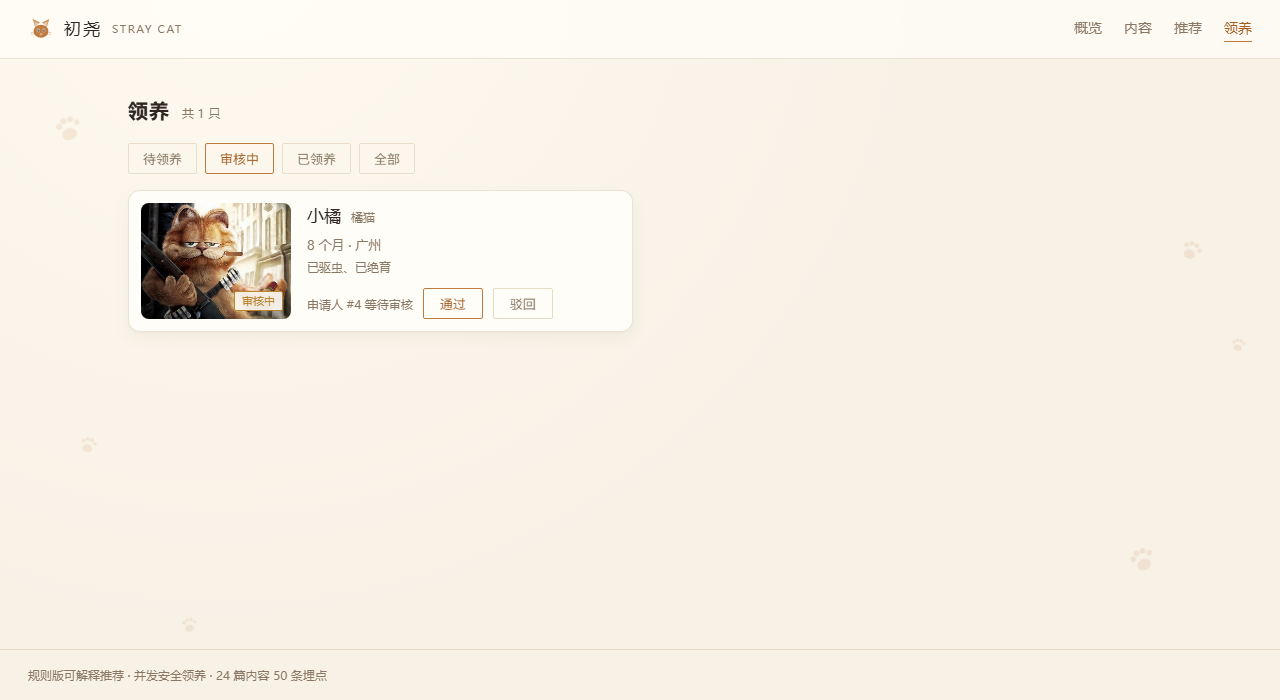
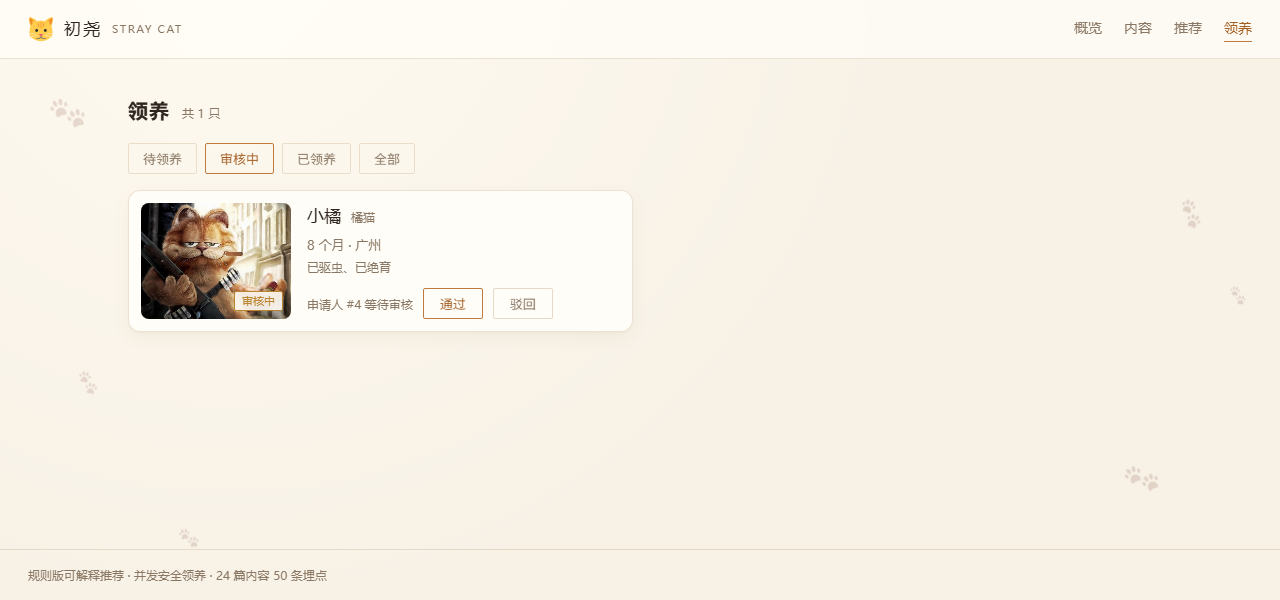
fix(web): 内容页每页 12 条（末行不再只剩一张）+ 换用 Twemoji 猫咪图形
- ContentList 里写死的 PAGE_SIZE=10 覆盖了 api 默认值，改为 12（3 列 × 4 行整除）
- 手绘猫形换成 Twemoji 的 🐱 / 🐾（CC-BY 4.0），16~64px 都清晰；整只猫轻微浮动
- 爪印背景改用同一套图形，README 增加素材来源与许可说明
- 截图脚本加 --run-all-compositor-stages-before-draw，避免拍到淡入动画中间帧

diff --git a/web/src/components/CatFace.vue b/web/src/components/CatFace.vue
@@ -1,118 +1,53 @@
 <script setup>
 // =============================================================================
-// components/CatFace.vue —— 会眨眼的小猫（纯 SVG + CSS 动画，零依赖）
+// components/CatFace.vue —— 小猫图案
 // =============================================================================
-// 为什么用 SVG 而不是图片：
-//   ① 颜色直接用 CSS 变量，换主题不用重做图
-//   ② 动画可以只作用于局部（这里只让"眼睛"眨），图片做不到
-//   ③ 体积几乎为 0，任意放大不糊
+// 图形来自 Twemoji（🐱 U+1F431），CC-BY 4.0 许可，见 README「素材来源」。
+// 为什么用现成的而不是自己画：手绘的 SVG 在小尺寸下五官挤在一起，
+// 现成的 emoji 图形在 16~64px 都经得住看。
 //
-// 构图顺序很重要：耳朵 → 头 → 五官。
-//   耳朵先画、头后画，耳朵的下半截就被头盖住，看起来是"长在头上"。
+// 动画：整只猫轻微上下浮 + 摆头，3.2 秒一个来回。
+//      （图片没法做"眨眼"，所以换成整体的小晃动，观感更自然）
 // =============================================================================
+import catUrl from '../assets/cat-face.svg'
+
 defineProps({
   size: { type: Number, default: 24 },
 })
 </script>
 
 <template>
-  <svg
+  <img
+    :src="catUrl"
     :width="size"
     :height="size"
-    viewBox="0 0 48 48"
     class="cat-face"
-    role="img"
-    aria-label="小猫"
-  >
-    <!-- 1. 外耳 -->
-    <path class="ear" d="M13 20 L8.5 5 L22 12 Z" />
-    <path class="ear" d="M35 20 L39.5 5 L26 12 Z" />
-    <!-- 2. 内耳（浅色，让耳朵有层次） -->
-    <path class="ear-inner" d="M14 19 L11.6 9.5 L19.8 14 Z" />
-    <path class="ear-inner" d="M34 19 L36.4 9.5 L28.2 14 Z" />
-    <!-- 3. 头（盖住耳朵根部） -->
-    <ellipse class="head" cx="24" cy="28" rx="13.6" ry="12" />
-    <!-- 4. 眼睛：白眼球 + 深瞳孔 + 高光，靠 scaleY 做眨眼 -->
-    <g class="eyes">
-      <ellipse class="eye-white" cx="19" cy="26.5" rx="2.7" ry="3.2" />
-      <ellipse class="eye-white" cx="29" cy="26.5" rx="2.7" ry="3.2" />
-      <ellipse class="pupil" cx="19" cy="27" rx="1.5" ry="2.1" />
-      <ellipse class="pupil" cx="29" cy="27" rx="1.5" ry="2.1" />
-      <circle class="spark" cx="19.7" cy="25.8" r="0.55" />
-      <circle class="spark" cx="29.7" cy="25.8" r="0.55" />
-    </g>
-    <!-- 5. 鼻子 + 嘴 -->
-    <path class="nose" d="M24 31.2 l-1.5 1.5 h3 Z" />
-    <path class="mouth" d="M24 32.7 v1.3 M24 34 q-1.6 1.6 -3 0 M24 34 q1.6 1.6 3 0" />
-    <!-- 6. 胡须 -->
-    <path class="whisker" d="M12.5 30.5 h-6.5 M12.5 33.5 h-6.5 M35.5 30.5 h6.5 M35.5 33.5 h6.5" />
-  </svg>
+    alt=""
+    aria-hidden="true"
+    draggable="false"
+  />
 </template>
 
 <style scoped>
 .cat-face {
   display: block;
-  overflow: visible;
-}
-.head {
-  fill: var(--violet);
-}
-.ear {
-  fill: var(--violet);
-  opacity: 0.8;
-}
-.ear-inner {
-  fill: var(--bg);
-  opacity: 0.55;
-}
-.eye-white {
-  fill: #fffaf0;
-}
-.pupil {
-  fill: #3a2a1c;
-}
-.spark {
-  fill: #fffaf0;
-}
-.nose {
-  fill: #fffaf0;
-  opacity: 0.95;
-}
-.mouth {
-  fill: none;
-  stroke: var(--bg);
-  stroke-width: 1;
-  stroke-linecap: round;
-  opacity: 0.75;
-}
-.whisker {
-  stroke: var(--violet-l);
-  stroke-width: 1;
-  stroke-linecap: round;
-  opacity: 0.5;
+  user-select: none;
+  transform-origin: 50% 92%;
+  animation: bob 3.2s ease-in-out infinite;
 }
 
-/* 眨眼：以两眼中间为原点纵向压扁（5 秒一次，一次 0.3 秒，不会太闹） */
-.eyes {
-  transform-origin: 24px 26.5px;
-  animation: blink 5s ease-in-out infinite;
-}
-@keyframes blink {
+@keyframes bob {
   0%,
-  90%,
   100% {
-    transform: scaleY(1);
+    transform: translateY(0) rotate(0deg);
   }
-  93% {
-    transform: scaleY(0.12);
-  }
-  96% {
-    transform: scaleY(1);
+  50% {
+    transform: translateY(-2px) rotate(-4deg);
   }
 }
 
 @media (prefers-reduced-motion: reduce) {
-  .eyes {
+  .cat-face {
     animation: none;
   }
 }

diff --git a/web/src/App.vue b/web/src/App.vue
@@ -2,6 +2,7 @@
 // App.vue 做三件事：外壳（导航条）+ 装饰（爪印/小猫）+ 出口（router-view）
 import { RouterLink, RouterView } from 'vue-router'
 import CatFace from './components/CatFace.vue'
+import pawUrl from './assets/paw.svg'
 
 // 背景爪印：位置、大小、旋转、动画延迟都写在这里，模板只负责渲染
 // （fixed 定位 + 低透明度，只在视觉边缘出现，不挡内容）
@@ -19,11 +20,13 @@ const paws = [
   <div class="shell">
     <!-- 背景爪印：会缓慢上下浮动 -->
     <div class="deco" aria-hidden="true">
-      <svg
+      <img
         v-for="(p, i) in paws"
         :key="i"
+        :src="pawUrl"
         class="paw"
-        viewBox="0 0 32 32"
+        alt=""
+        draggable="false"
         :style="{
           top: p.top,
           left: p.left,
@@ -32,13 +35,7 @@ const paws = [
           '--rot': p.rot + 'deg',
           animationDelay: p.delay,
         }"
-      >
-        <ellipse cx="16" cy="21" rx="7" ry="5.6" />
-        <circle cx="8.5" cy="11.5" r="2.8" />
-        <circle cx="14" cy="7.8" r="2.8" />
-        <circle cx="20.5" cy="8" r="2.8" />
-        <circle cx="25.8" cy="12.5" r="2.6" />
-      </svg>
+      />
     </div>
 
     <header class="topbar">
@@ -82,8 +79,7 @@ const paws = [
 }
 .paw {
   position: absolute;
-  fill: var(--violet);
-  opacity: 0.13;
+  opacity: 0.14;
   transform: rotate(var(--rot));
   animation: drift 9s ease-in-out infinite;
 }

diff --git a/web/src/views/ContentList.vue b/web/src/views/ContentList.vue
@@ -21,7 +21,7 @@ const list = ref([])
 const total = ref(0)
 const page = ref(1)
 const loading = ref(false)
-const PAGE_SIZE = 10
+const PAGE_SIZE = 12   // 3 列 × 4 行，整除，避免最后一行只剩一张
 const error = ref('')
 const mood = ref('')
 

diff --git a/README.md b/README.md
@@ -213,6 +213,11 @@ uv run pytest -q
 
 > 测试是否真的有效，用"故意改坏"来验证：把分页 `offset` 改成固定 0，`test_list_total_matches_across_pages` 应立刻变红。
 
+## 素材来源
+
+- 猫咪（🐱）与爪印（🐾）图形来自 [Twemoji](https://github.com/jdecked/twemoji)，CC-BY 4.0。
+- 文章封面图来自 [cataas](https://cataas.com)（随机猫片），仅用于演示。
+
 ## 待办
 
 - [x] `content` / `user_event` / `app_user` / `cat` 四张表
